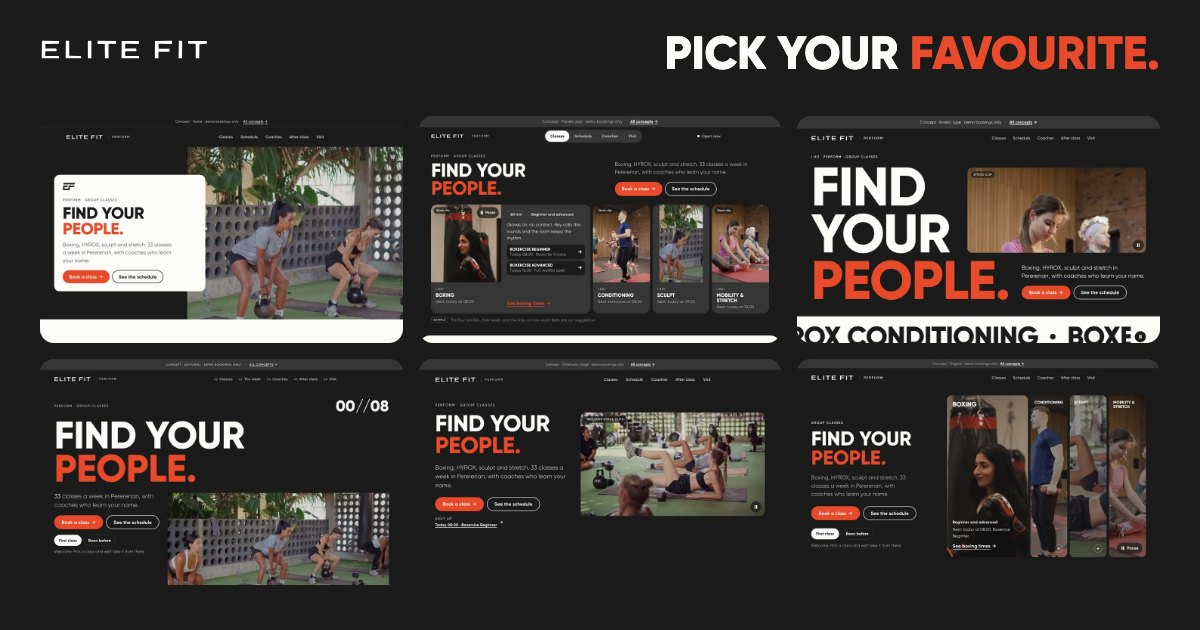
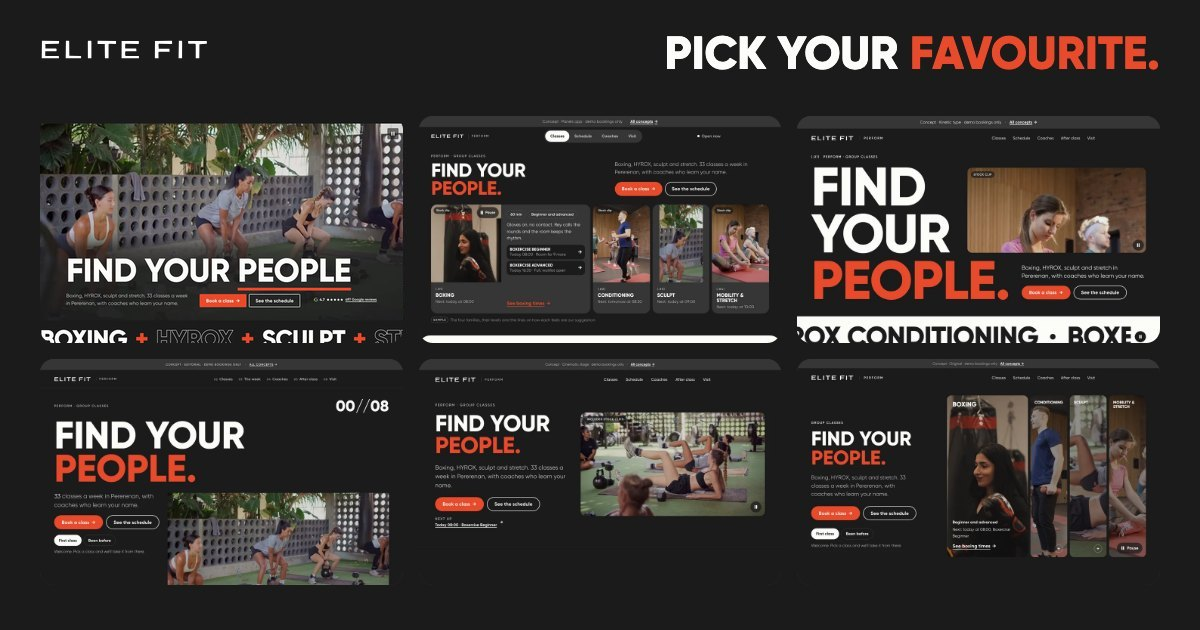
Rebuild chooser share image with Warm v3 and update the root README
- og-chooser.jpg: same 1200 x 630 JPEG grid; only the top-left slot changes,
  now the Warm v3 thumbnail (s3-home-v4-d.webp). The other five slots, the
  header, quantisation tables and colour profile are unchanged.
- README.md: describes what is online (group classes concept chooser with
  Warm v3 as Recommended, homepage prototypes v1 and v2, SEO keyword matrix)
  and adds a dated changelog.

Changed region(s): [[0.0308, 0.181, 0.3392, 0.5429]]

diff --git a/README.md b/README.md
@@ -1,1 +1,18 @@
-Content removed on 2026-11-04.
+# Elite Fit design concepts
+
+Design demos and one research document for the Elite Fit website, shared for review. This is not the live Elite Fit website. Every page is marked `noindex`, takes no payments and sends nothing anywhere.
+
+## What is online
+
+| Item | Where | What it is |
+| --- | --- | --- |
+| [Group classes: design concept chooser](https://digitalmovementuk.github.io/elitefit-ops/groupfitness-prototype/) | `groupfitness-prototype/` | Five concepts for the group classes page, each with a demo booking. **Warm v3** is the Recommended concept; Upfront, Tactile, Loud and Glossy sit under Other concepts. |
+| [Homepage prototype v1](https://digitalmovementuk.github.io/elitefit-ops/homepage-prototype/v1/) and [v2](https://digitalmovementuk.github.io/elitefit-ops/homepage-prototype/v2/) | `homepage-prototype/v1/`, `homepage-prototype/v2/` | Two homepage design demos. |
+| [SEO keyword matrix](https://digitalmovementuk.github.io/elitefit-ops/reference/local-documents/seo-matrix-v0.2/EF-SEO-Keyword-Matrix-v0.3-draft4.html) | `reference/local-documents/seo-matrix-v0.2/` | Keyword matrix v0.3 draft 4 as HTML and Markdown, with its evidence table (CSV). |
+
+## Changelog
+
+| Date | Change |
+| --- | --- |
+| 2026-11-05 | Design concepts and the SEO keyword matrix are online again. The chooser's Recommended concept is Warm v3, with new thumbnails and a new share image. |
+| 2026-11-04 | Content removed. |
